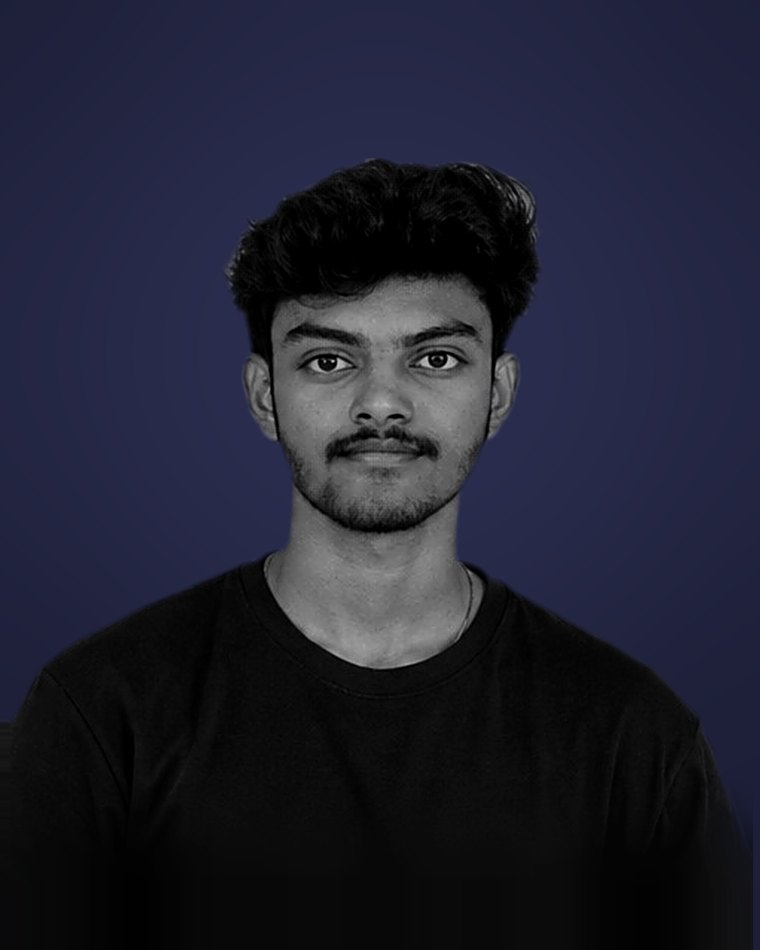
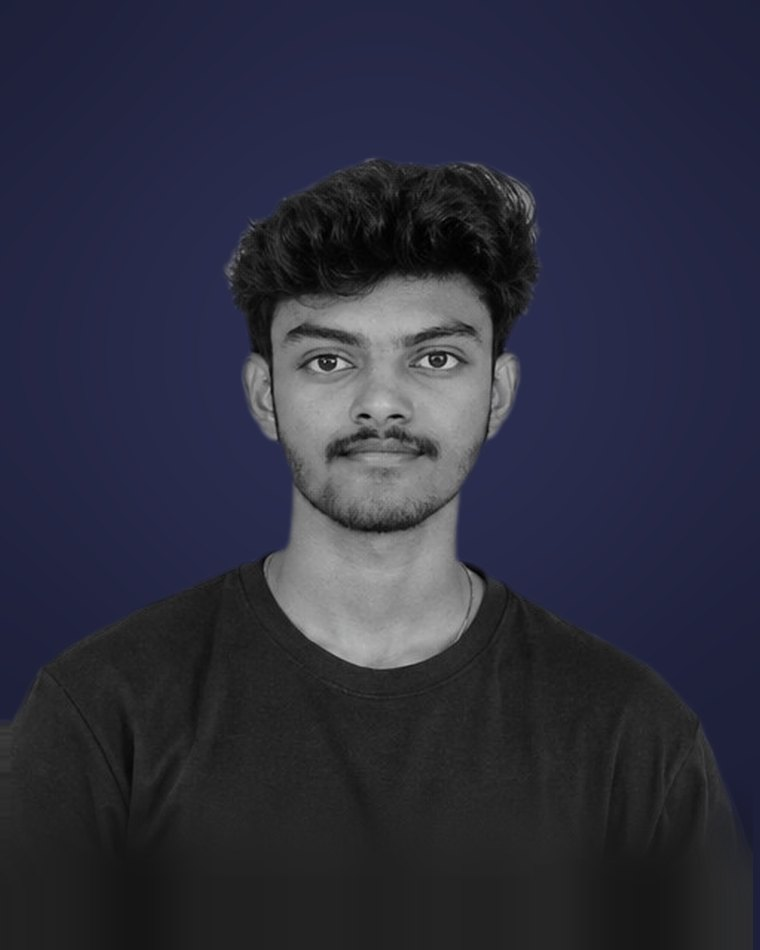
Use Shyan's photo as it is, without the black and white grading

diff --git a/scripts/team_photo.py b/scripts/team_photo.py
@@ -35,7 +35,8 @@ PEOPLE = {
     "ajay": dict(file="ajay.heic", eye=1030, chin=1165, cx=1092, scale=1.0),
     # A small, already black and white photo: the left and bottom edges are
     # extended (pad = left, bottom) so the shirt fills the card. cx includes it.
-    "shyan": dict(file="shyan-4.jpg", eye=165, chin=278, cx=265, scale=1.0, pad=(15, 70)),
+    # raw: no grading, the photo is used as it is.
+    "shyan": dict(file="shyan-4.jpg", eye=165, chin=278, cx=265, scale=1.0, pad=(15, 70), raw=True),
 }
 # Everyone is graded to match the face in this photo: its brightness,
 # contrast and soft, deep-black look. It is only measured, never put on a card.
@@ -147,7 +148,7 @@ def main(only=None):
         if only and name not in only:
             continue
         card = backdrop()
-        card.alpha_composite(to_grey(place(cut_out(p, session), p), target))
+        card.alpha_composite(to_grey(place(cut_out(p, session), p), None if p.get("raw") else target))
         card.convert("RGB").save(OUT / f"team-card-{name}.jpg", quality=86, optimize=True, progressive=True)
         print("card", name)
 
